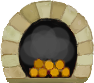
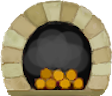
level editor fix fireplace

diff --git a/Aiden/core/src/edu/cornell/gdiac/physics/editor/LevelEditor.java b/Aiden/core/src/edu/cornell/gdiac/physics/editor/LevelEditor.java
@@ -483,7 +483,7 @@ public class LevelEditor extends WorldController {
 					holdingBlock = block;
 					break;
 				case GOAL_DOOR_IND:
-					block = new StoneBlock(xPos, yPos, 2, 2);
+					block = new StoneBlock(xPos, yPos, 3.5f, 3);
 					trans = fitInGrid(new Vector2(block.getX()
 							- block.getWidth() / 2f,
 							block.getY()
